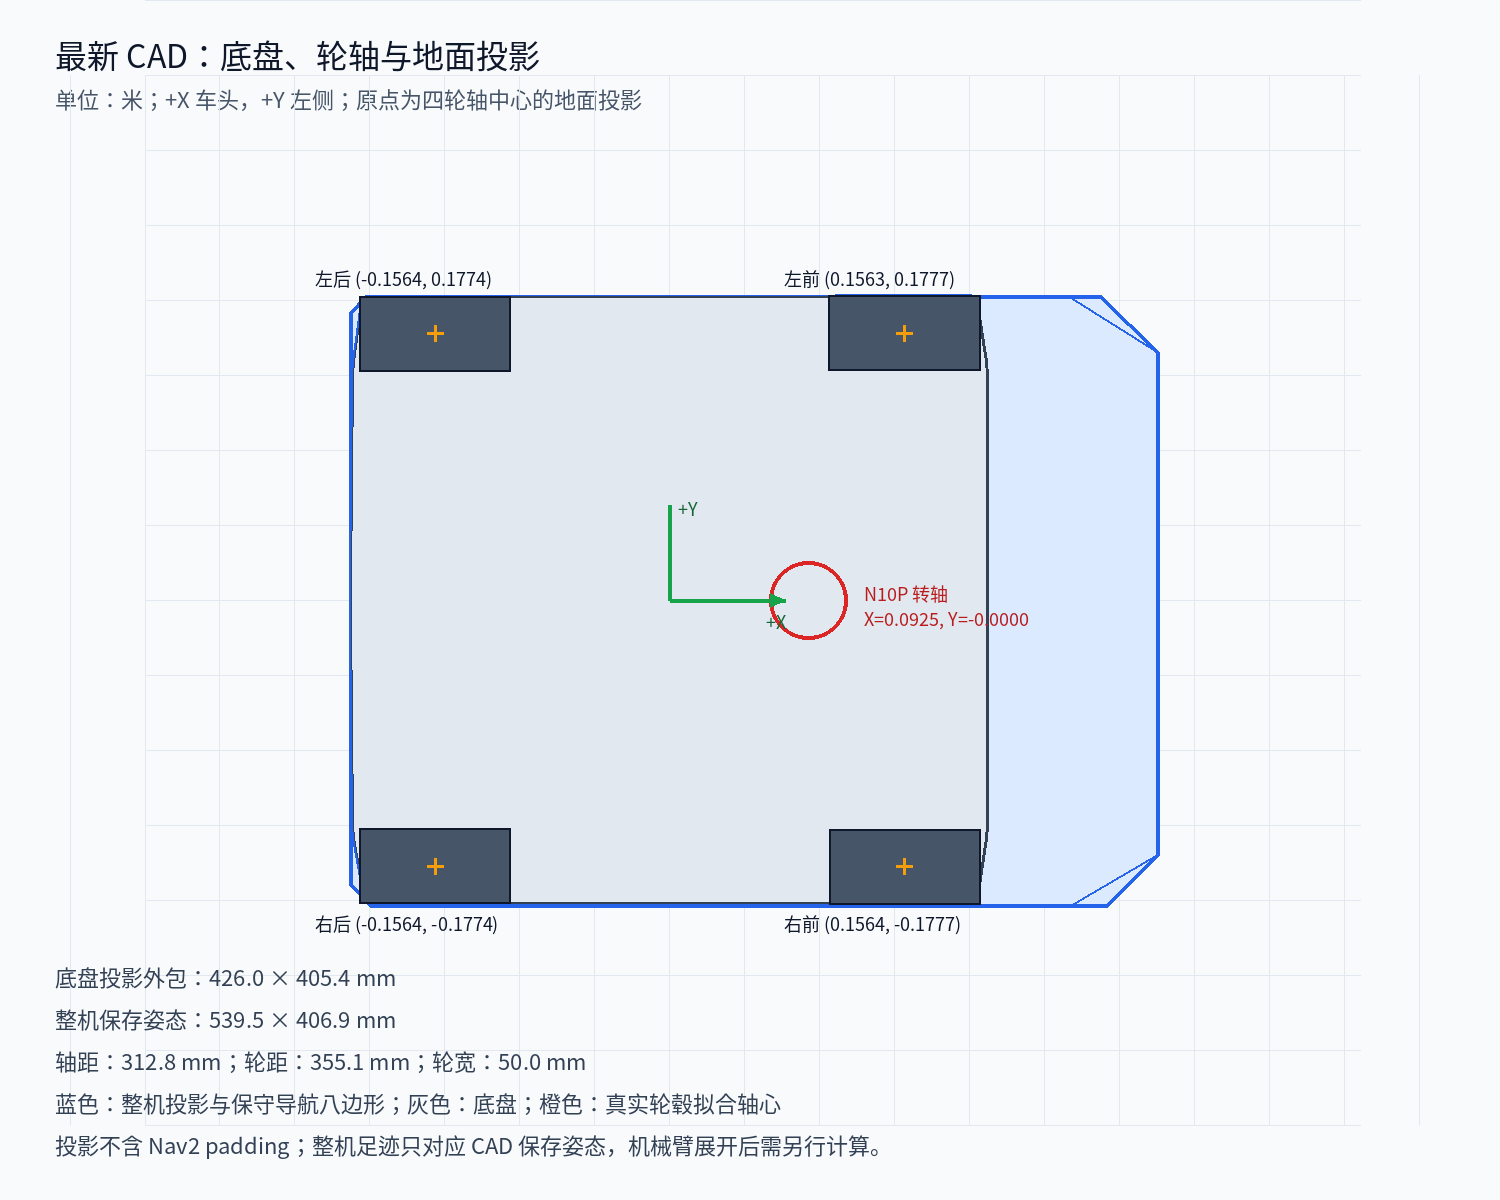
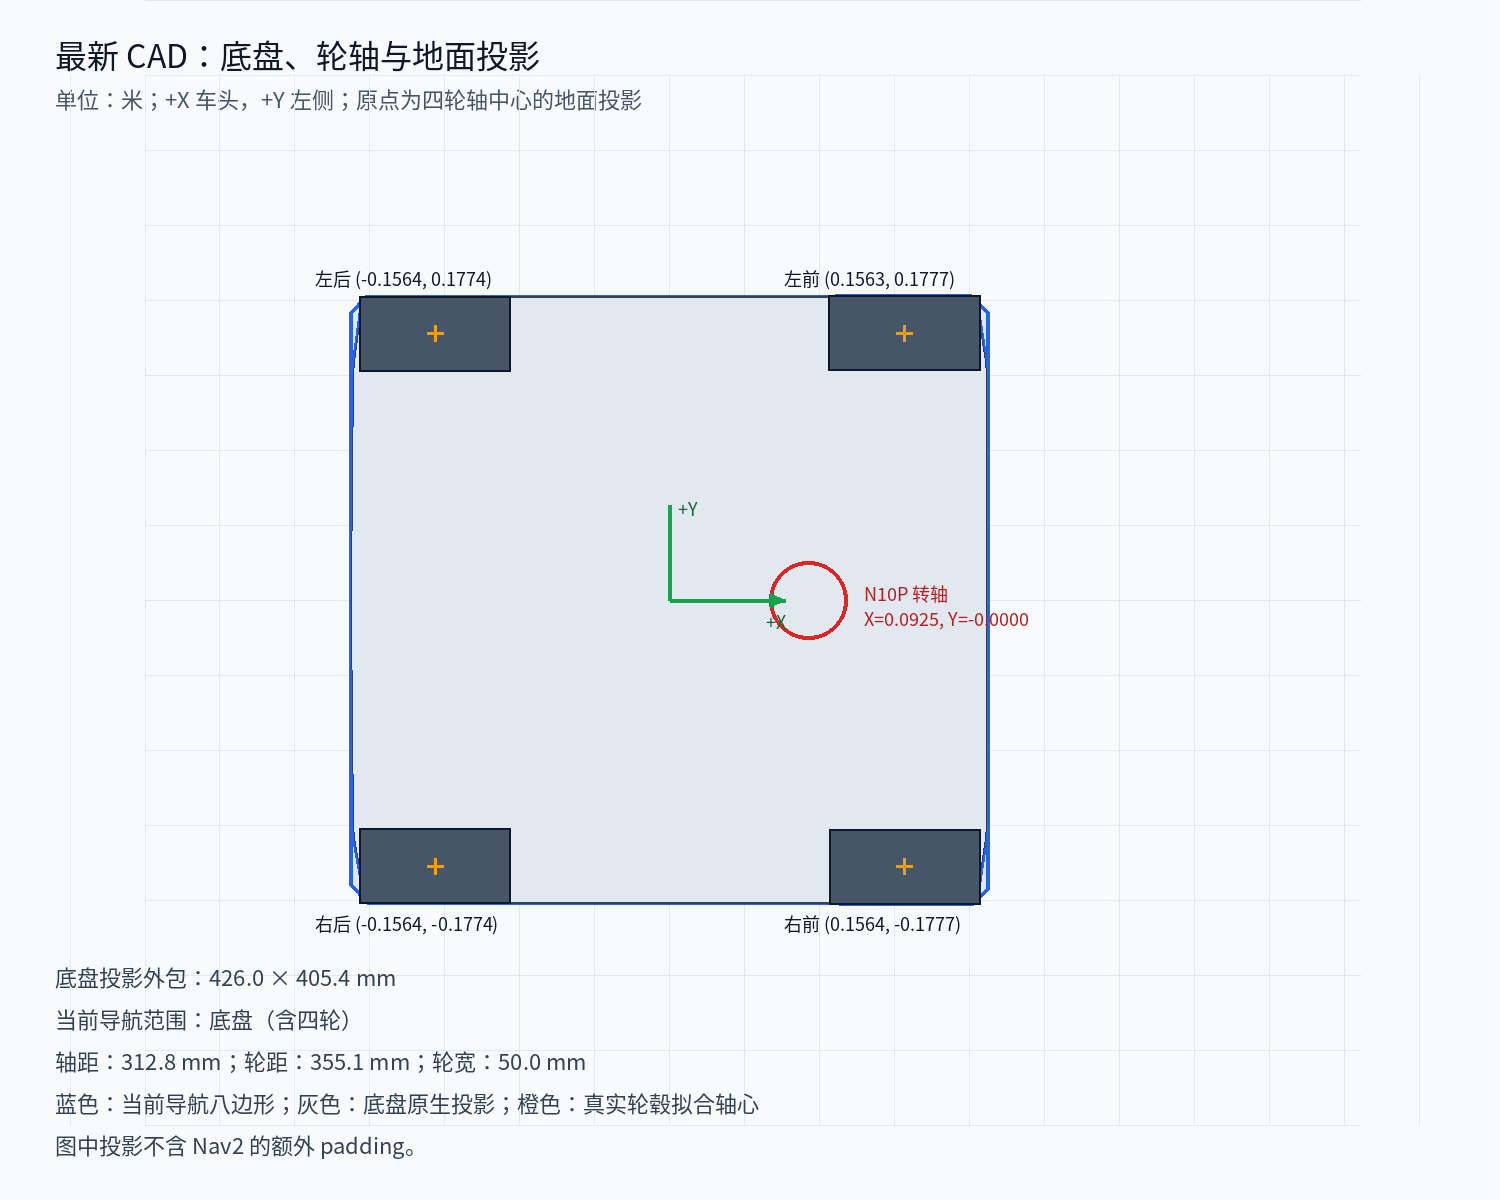
fix: limit navigation footprint to chassis projection

Changed region(s): [[0.644, 0.2467, 0.7973, 0.7708], [0.0307, 0.8942, 0.5827, 0.9867], [0.0307, 0.8325, 0.2453, 0.8633]]

diff --git a/scripts/update_chassis_model.py b/scripts/update_chassis_model.py
@@ -143,11 +143,11 @@ def draw_projection(path, data):
         value = float(value)
         draw.line([xy((value, -.35)), xy((value, .35))], fill="#e2e8f0", width=1)
         draw.line([xy((-.35, value)), xy((.46, value))], fill="#e2e8f0", width=1)
-    full = data["projections"]["whole_robot_saved_pose"]
+    selected = data["projections"][data["selected_navigation_projection"]]
     chassis = data["projections"]["chassis"]
-    draw.polygon([xy(p) for p in full["navigation_polygon_xy_m"]], fill="#dbeafe", outline="#2563eb", width=4)
+    draw.polygon([xy(p) for p in selected["navigation_polygon_xy_m"]], fill="#dbeafe", outline="#2563eb", width=4)
     draw.polygon([xy(p) for p in chassis["convex_hull_xy_m"]], fill="#e2e8f0", outline="#334155", width=3)
-    outline = [xy(p) for p in full["convex_hull_xy_m"]]
+    outline = [xy(p) for p in selected["convex_hull_xy_m"]]
     draw.line(outline + outline[:1], fill="#2563eb", width=2)
     labels = {"front_left": "左前", "rear_left": "左后", "front_right": "右前", "rear_right": "右后"}
     for name, wheel in data["wheels"].items():
@@ -171,12 +171,12 @@ def draw_projection(path, data):
     draw.text((x + 96, y + 8), "+X", font=small, fill="#166534")
     draw.text((x + 8, y - 105), "+Y", font=small, fill="#166534")
     chassis_size = np.diff(np.array(chassis["bounds_m"]), axis=0)[0]
-    full_size = np.diff(np.array(full["bounds_m"]), axis=0)[0]
+    scope_label = "底盘（含四轮）" if data["selected_navigation_projection"] == "chassis" else "整机 CAD 保存姿态"
     lines = [f"底盘投影外包：{chassis_size[0]*1000:.1f} × {chassis_size[1]*1000:.1f} mm",
-             f"整机保存姿态：{full_size[0]*1000:.1f} × {full_size[1]*1000:.1f} mm",
+             f"当前导航范围：{scope_label}",
              f"轴距：{data['wheelbase_m']*1000:.1f} mm；轮距：{data['track_width_m']*1000:.1f} mm；轮宽：50.0 mm",
-             "蓝色：整机投影与保守导航八边形；灰色：底盘；橙色：真实轮毂拟合轴心",
-             "投影不含 Nav2 padding；整机足迹只对应 CAD 保存姿态，机械臂展开后需另行计算。"]
+             "蓝色：当前导航八边形；灰色：底盘原生投影；橙色：真实轮毂拟合轴心",
+             "图中投影不含 Nav2 的额外 padding。"]
     for i, line in enumerate(lines):
         draw.text((55, 960 + i * 42), line, font=font, fill="#334155")
     image.save(path)
@@ -186,7 +186,7 @@ def main():
     parser = argparse.ArgumentParser(description=__doc__)
     parser.add_argument("--cad-analysis", type=Path, required=True)
     parser.add_argument("--repo", type=Path, default=Path(__file__).resolve().parents[1])
-    parser.add_argument("--footprint", choices=["whole_robot_saved_pose", "chassis"], default="whole_robot_saved_pose")
+    parser.add_argument("--footprint", choices=["whole_robot_saved_pose", "chassis"], default="chassis")
     parser.add_argument("--lidar-zero-heading", choices=["unconfirmed", "forward", "backward", "left", "right"], default="unconfirmed")
     parser.add_argument("--lidar-scan-height", type=float, help="Measured optical centre height above the floor, in metres")
     args = parser.parse_args()

diff --git a/tests/test_chassis_geometry.py b/tests/test_chassis_geometry.py
@@ -78,7 +78,8 @@ def test_lidar_mount_is_on_rotation_axis_and_scan_calibration_is_separate(robot,
     assert robot.find("link[@name='lidar_mount']/visual/geometry/mesh") is not None
 
 
-def test_navigation_envelope_contains_both_cad_projections(measurements):
+def test_navigation_envelope_uses_chassis_projection(measurements):
+    assert measurements["selected_navigation_projection"] == "chassis"
     config = yaml.safe_load((ROOT / "src/duojin01_bringup/config/nav2.yaml").read_text())
     polygon = measurements["projections"][measurements["selected_navigation_projection"]]["navigation_polygon_xy_m"]
     for costmap in ["local_costmap", "global_costmap"]:
@@ -90,11 +91,9 @@ def test_navigation_envelope_contains_both_cad_projections(measurements):
         inscribed = min(abs(a[0] * b[1] - a[1] * b[0]) / math.hypot(b[0] - a[0], b[1] - a[1])
                         for a, b in zip(padded, padded[1:] + padded[:1]))
         assert parameters["inflation_layer"]["inflation_radius"] > inscribed
-    scopes = ["chassis", measurements["selected_navigation_projection"]]
-    for scope in scopes:
-        for x, y in measurements["projections"][scope]["convex_hull_xy_m"]:
-            for a, b in zip(polygon, polygon[1:] + polygon[:1]):
-                assert (b[0] - a[0]) * (y - a[1]) - (b[1] - a[1]) * (x - a[0]) >= -1e-7
+    for x, y in measurements["projections"]["chassis"]["convex_hull_xy_m"]:
+        for a, b in zip(polygon, polygon[1:] + polygon[:1]):
+            assert (b[0] - a[0]) * (y - a[1]) - (b[1] - a[1]) * (x - a[0]) >= -1e-7
 
 
 def test_visual_asset_hashes_and_body_collision_envelope(measurements, robot):

diff --git a/README.MD b/README.MD
@@ -8,7 +8,7 @@
 
 真机描述已按 2026-09-21 的 CAD 更新：四个独立麦克纳姆轮使用原始滚子网格，轮毂拟合轴距约 **312.8 mm**、轮距约 **355.1 mm**、轮宽 **50.0 mm**；底盘投影约 **426.0 × 405.4 mm**。`base_footprint` 原点为四轮轴中心的地面投影，雷达转轴位于车体中心前方约 **92.5 mm**，零度标记朝车头。
 
-Nav2 足迹采用整机 CAD 保存姿态的保守投影，包含夹爪外伸。详细尺寸、预览、坐标系、生成方法与尚待实测的雷达光学高度 / IMU 外参见 [底盘测算报告](docs/chassis/README.md)。
+Nav2 足迹采用底盘（含四轮）的保守投影。详细尺寸、预览、坐标系、生成方法与尚待实测的雷达光学高度 / IMU 外参见 [底盘测算报告](docs/chassis/README.md)。
 
 ## Docker：构建和运行
 
